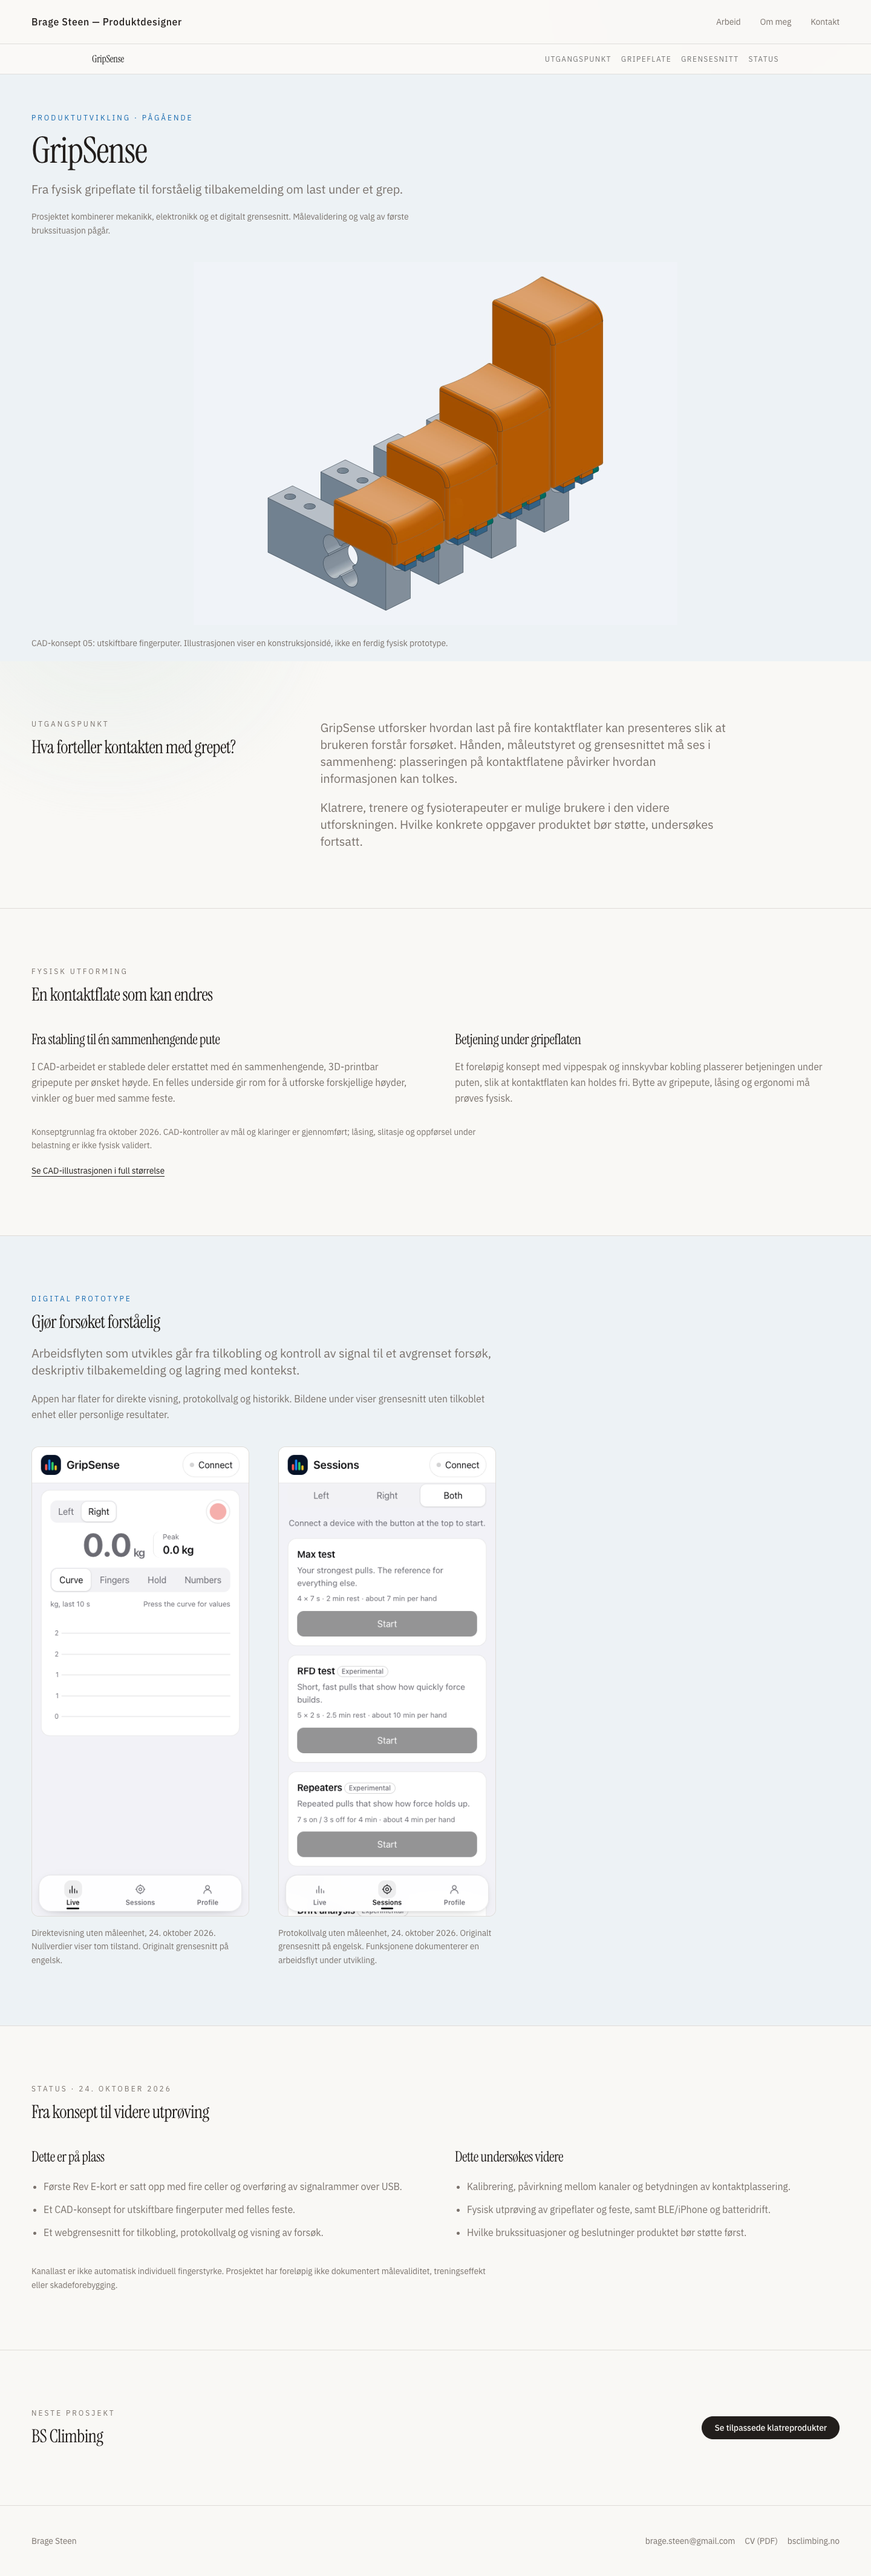
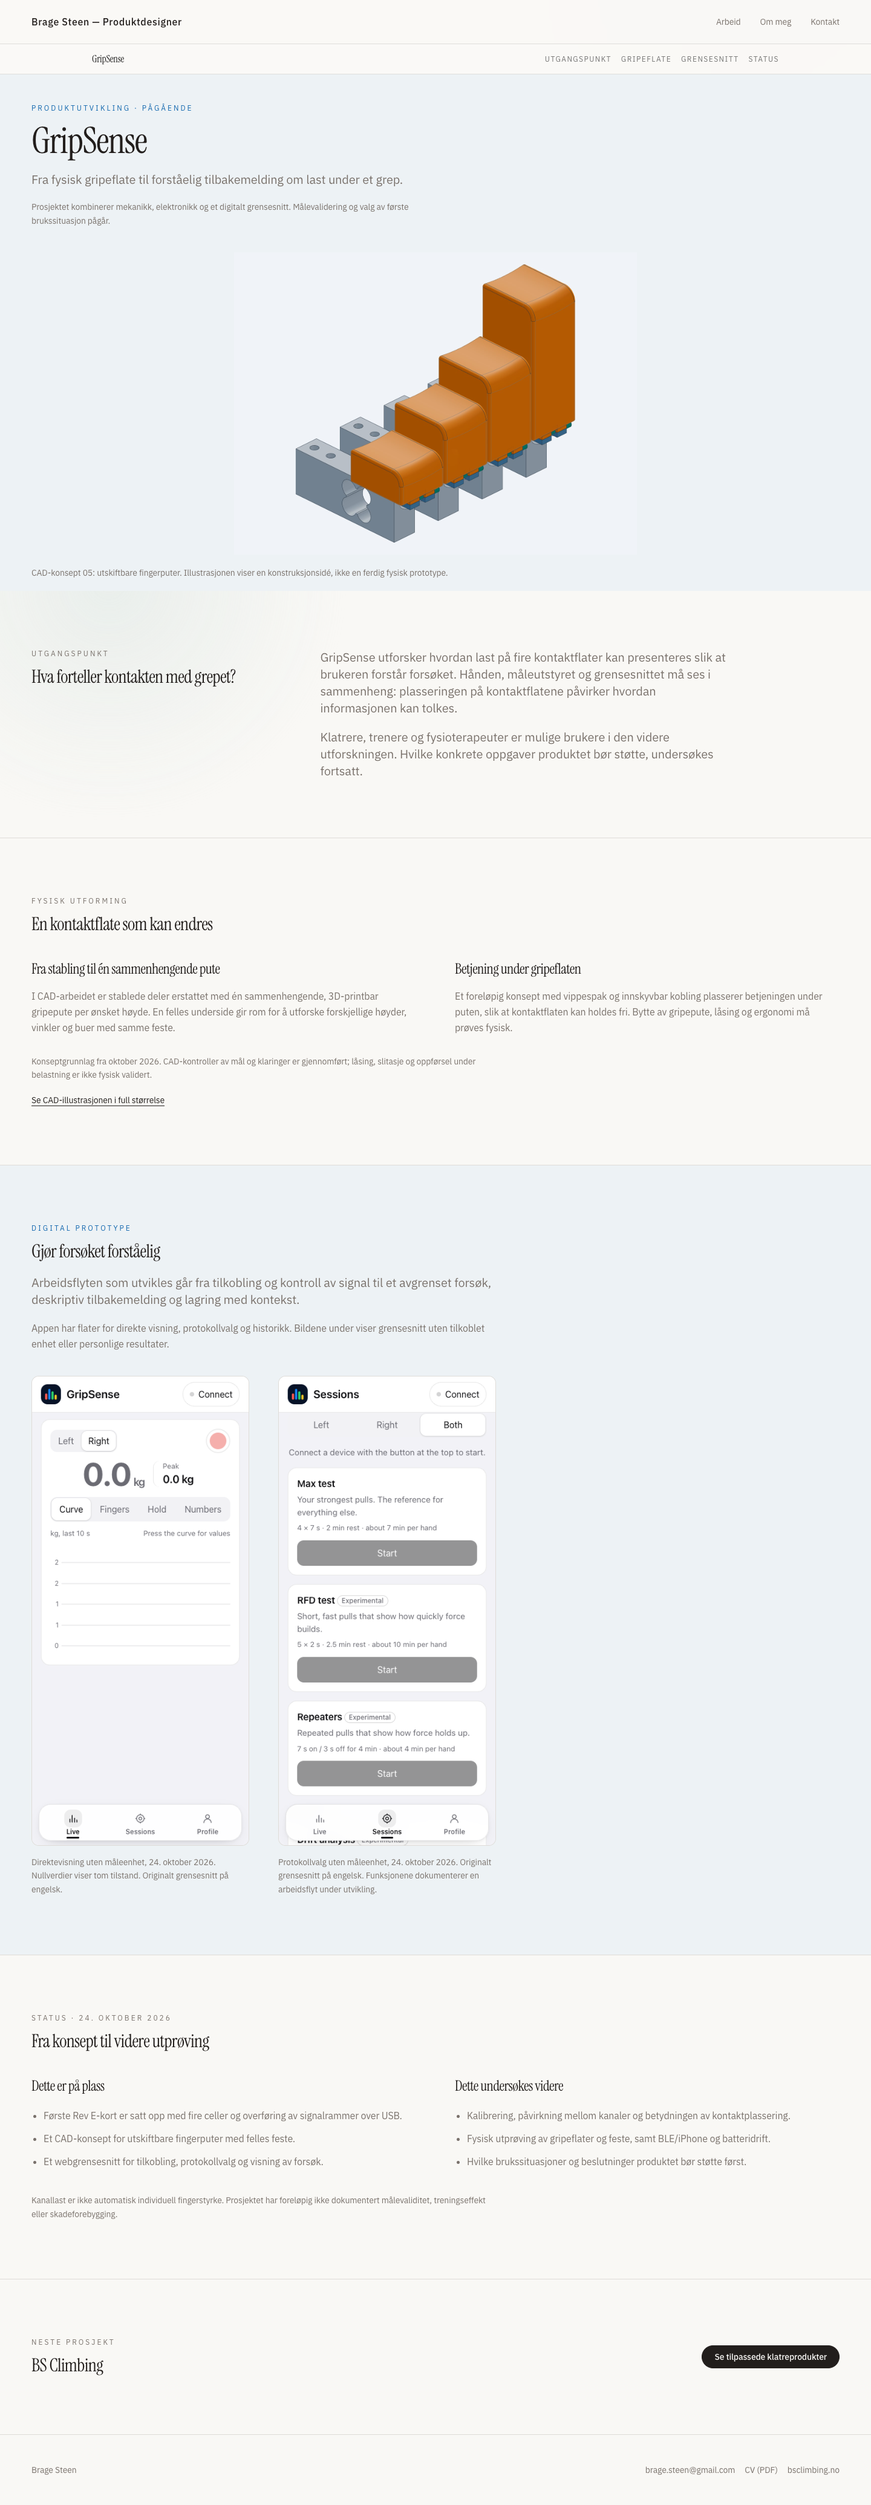
Tilpass første skjerm og dokumenter GripSense-preview

diff --git a/src/pages/projects/GripSenseProject.tsx b/src/pages/projects/GripSenseProject.tsx
@@ -16,14 +16,14 @@ export default function GripSenseProject() {
     <ProjectBar title="GripSense" sections={sections} />
     <main id="main-content" className="[overflow-wrap:anywhere]">
       <section className="bg-[#edf2f5]">
-        <div className="container pt-12 md:pt-16 animate-fade-in-up">
+        <div className="container pt-12 animate-fade-in-up">
           <p className="eyebrow text-[#1267ae]">Produktutvikling · pågående</p>
           <h1 className="text-display-xl mt-4">GripSense</h1>
           <p className="text-body-lg mt-5 max-w-2xl">Fra fysisk gripeflate til forståelig tilbakemelding om last under et grep.</p>
           <p className="mt-5 max-w-2xl text-sm leading-relaxed">Prosjektet kombinerer mekanikk, elektronikk og et digitalt grensesnitt. Målevalidering og valg av første brukssituasjon pågår.</p>
         </div>
         <figure className="mt-8 md:mt-10">
-          <Prosjektbilde src={`${base}/fingerputer-konsept-05.jpg`} alt="CAD-konsept med fire fingerputer i ulike høyder og feste under gripeflatene" fetchPriority="high" className="w-full max-h-[600px] object-contain" />
+          <Prosjektbilde src={`${base}/fingerputer-konsept-05.jpg`} alt="CAD-konsept med fire fingerputer i ulike høyder og feste under gripeflatene" fetchPriority="high" className="w-full h-auto max-h-[520px] object-contain md:h-[max(180px,calc(100svh_-_500px))]" />
           <figcaption className="container py-5 text-sm text-muted-foreground">CAD-konsept 05: utskiftbare fingerputer. Illustrasjonen viser en konstruksjonsidé, ikke en ferdig fysisk prototype.</figcaption>
         </figure>
       </section>

diff --git a/docs/portefolje/implementering/j3-2026-10-24.md b/docs/portefolje/implementering/j3-2026-10-24.md
@@ -85,3 +85,12 @@ Det er fortsatt mulig å bruke den publiserte J2-porteføljen i søknader mens d
 ![GripSense-utkast på desktop](bilder/j3-gripsense-desktop.png)
 
 ![GripSense-utkast på mobil](bilder/j3-gripsense-mobil.png)
+
+## Cloudflare-forhåndsvisning
+
+PR #27 er pushet som kladd. Cloudflare-build `31faa227-e888-4bef-802c-edb3b81c59a5`
+bestod for første kodecommit `5e3b36f`. Alle sju kontrollgrupper bestod også i
+[forhåndsvisningen](https://codex-portfolio-j3-gripsense-brage-steen-product-designer.brage-steen.workers.dev/prosjekter/gripsense).
+En siste lokal høydejustering sørger for at CAD-bildet og merkingen vises i første skjerm:
+kontrollert ved 1280 × 720 og 1280 × 1000, samt 390 × 844 i kontrollscriptet.
+J3 er ikke merget; `/prosjekter/gripsense` gir fortsatt 404 på hoveddomenet.

diff --git a/AGENTS.md b/AGENTS.md
@@ -16,7 +16,8 @@ Porteføljen til Brage Steen, live på https://bragesteen.no. Repoet er **offent
   og produksjonskontrollert: 20 nettleserkontrollgrupper bestod.
 - J2 er merget i PR #26 (`e280808417f67dd59d6f7f794bbe1e2927461e49`) og publisert.
   Alle 29 kontrollgrupper bestod i produksjon 2026-10-24.
-- Aktiv fase: J3, GripSense-case på `codex/portfolio-j3-gripsense`.
+- Aktiv fase: J3, GripSense-utkast på `codex/portfolio-j3-gripsense`, kladd-PR #27.
+  Egen rute med noindex; rolle og fysiske bilder må avklares før hovedplassering.
 - Dagens `rebuild/astro` er et forkastet designutkast og skal ikke merges eller publiseres.
 - Kodeforbedringer starter fra oppdatert `main` i egen gren. Ikke ta med Astro-implementasjonen
   som følge av at plan eller historikk tidligere lå på den grenen.

diff --git a/PLANS.md b/PLANS.md
@@ -240,7 +240,8 @@ full nettbutikk-QA eller vitenskapelig validering av prosjektresultater.
 - [x] 2026-10-24: J2 publisert gjennom PR #26, merge `e280808417f67dd59d6f7f794bbe1e2927461e49`.
   Cloudflare-build `2abb5ec7-1288-42e6-934c-ac842972aae4` er grønt; 29 grupper består i produksjon.
 - [x] 2026-10-24: GripSense-utkast bygget på `codex/portfolio-j3-gripsense`, med oppdaterte kilder,
-  tydelig merket CAD-konsept og nye tomme appbilder. Sju lokale nettlesergrupper består.
+  tydelig merket CAD-konsept og nye tomme appbilder. Sju nettlesergrupper består lokalt
+  og i Cloudflare-forhåndsvisningen. Kladd-PR #27 er opprettet.
 - [ ] J3: Brages rolle og aktuelle fysiske prototypebilder/iterasjoner må bekreftes før hovedplassering.
 
 ### Beslutningslogg
